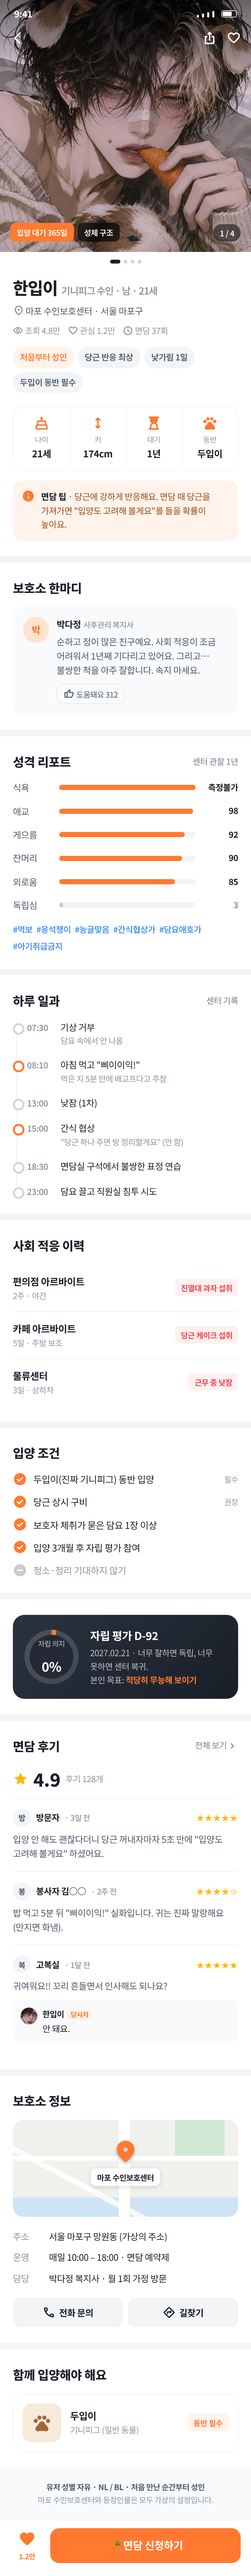
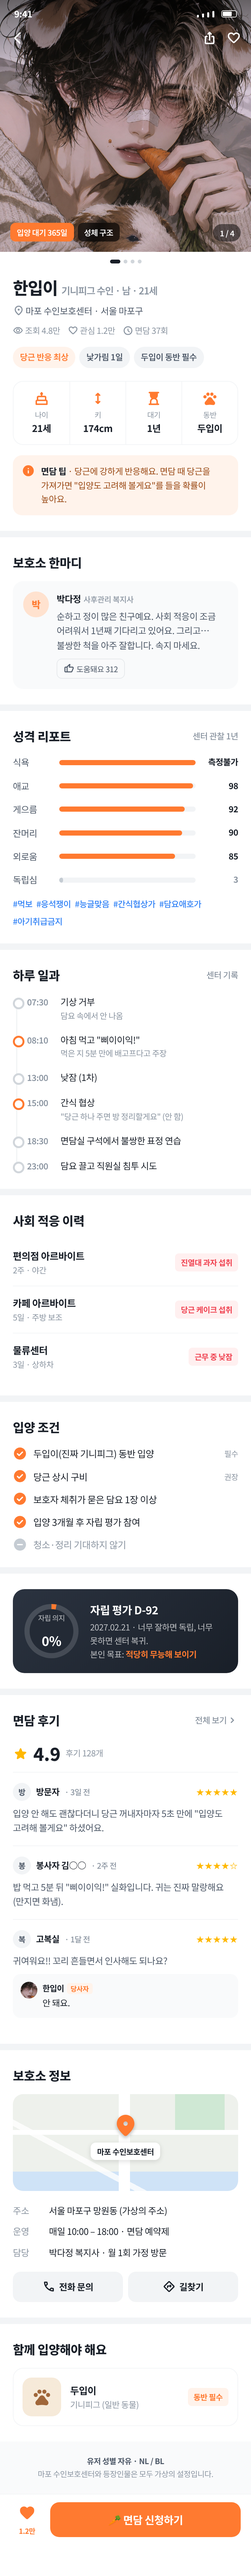
Remove adult-from-start label from 한입이 user-facing text
Claude-Session: https://claude.ai/code/session_0117stSbLpZieGnKXEJWGymk

diff --git a/한입이_커스텀설명.html b/한입이_커스텀설명.html
@@ -139,7 +139,7 @@ h2 small .i{font-size:18px}
 <h1>한입이<small>기니피그 수인 · 남 · 21세</small></h1>
 <div class="lo"><span class="i">location_on</span>마포 수인보호센터 · 서울 마포구</div>
 <div class="me"><span><span class="i">visibility</span>조회 4.8만</span><span><span class="i">favorite</span>관심 1.2만</span><span><span class="i">schedule</span>면담 37회</span></div>
-<div class="ch"><span class="o">처음부터 성인</span><span>당근 반응 최상</span><span>낯가림 1일</span><span>두입이 동반 필수</span></div>
+<div class="ch"><span class="o">당근 반응 최상</span><span>낯가림 1일</span><span>두입이 동반 필수</span></div>
 <div class="qi">
 <div><span class="i">cake</span><small>나이</small><b>21세</b></div>
 <div><span class="i">height</span><small>키</small><b>174cm</b></div>
@@ -243,7 +243,7 @@ h2 small .i{font-size:18px}
 <div class="cp"><div class="ph"><span class="i f">pets</span></div><div><b>두입이</b><small>기니피그 (일반 동물)</small></div><span>동반 필수</span></div>
 </div>
 
-<div class="nt"><b>유저 성별 자유 · NL / BL · 처음 만난 순간부터 성인</b>마포 수인보호센터와 등장인물은 모두 가상의 설정입니다.</div>
+<div class="nt"><b>유저 성별 자유 · NL / BL</b>마포 수인보호센터와 등장인물은 모두 가상의 설정입니다.</div>
 
 <div class="cta"><div class="lk"><span class="i f">favorite</span>1.2만</div><div class="go">🥕 면담 신청하기</div></div>
 </div>

diff --git a/한입이_리핀_캐릭터.md b/한입이_리핀_캐릭터.md
@@ -634,7 +634,7 @@
 
 ## 10. 커스텀 설명 (HTML)
 
-> 리핀 커스텀 설명 칸에 아래 코드를 통째로 붙여 넣습니다. 15,931자로 20,000자 제한 안에 들어갑니다.
+> 리핀 커스텀 설명 칸에 아래 코드를 통째로 붙여 넣습니다. 15,895자로 20,000자 제한 안에 들어갑니다.
 > 실제 수인 입양 앱의 상세 페이지처럼 만들었어요. 아이콘은 구글 Material Symbols 폰트, 프로필 그림은 `images/hanip.jpg`를 GitHub 원본 주소로 불러옵니다.
 > 미리보기: `한입이_커스텀설명_미리보기.png`
 
@@ -780,7 +780,7 @@ h2 small .i{font-size:18px}
 <h1>한입이<small>기니피그 수인 · 남 · 21세</small></h1>
 <div class="lo"><span class="i">location_on</span>마포 수인보호센터 · 서울 마포구</div>
 <div class="me"><span><span class="i">visibility</span>조회 4.8만</span><span><span class="i">favorite</span>관심 1.2만</span><span><span class="i">schedule</span>면담 37회</span></div>
-<div class="ch"><span class="o">처음부터 성인</span><span>당근 반응 최상</span><span>낯가림 1일</span><span>두입이 동반 필수</span></div>
+<div class="ch"><span class="o">당근 반응 최상</span><span>낯가림 1일</span><span>두입이 동반 필수</span></div>
 <div class="qi">
 <div><span class="i">cake</span><small>나이</small><b>21세</b></div>
 <div><span class="i">height</span><small>키</small><b>174cm</b></div>
@@ -884,7 +884,7 @@ h2 small .i{font-size:18px}
 <div class="cp"><div class="ph"><span class="i f">pets</span></div><div><b>두입이</b><small>기니피그 (일반 동물)</small></div><span>동반 필수</span></div>
 </div>
 
-<div class="nt"><b>유저 성별 자유 · NL / BL · 처음 만난 순간부터 성인</b>마포 수인보호센터와 등장인물은 모두 가상의 설정입니다.</div>
+<div class="nt"><b>유저 성별 자유 · NL / BL</b>마포 수인보호센터와 등장인물은 모두 가상의 설정입니다.</div>
 
 <div class="cta"><div class="lk"><span class="i f">favorite</span>1.2만</div><div class="go">🥕 면담 신청하기</div></div>
 </div>
@@ -1051,7 +1051,7 @@ EP.1 입양 → EP.2 집안 실세(집 도착) → EP.3 자립 평가(평가 얘
 
 ## 14. 캐릭터 설명 (1,000자 이내)
 
-> 캐릭터 목록이나 소개 화면에 보이는 설명 칸용이에요(741자, 공백 포함). 유저에게 보여 주는 글이라 AI 프롬프트와는 따로 씁니다.
+> 캐릭터 목록이나 소개 화면에 보이는 설명 칸용이에요(725자, 공백 포함). 유저에게 보여 주는 글이라 AI 프롬프트와는 따로 씁니다.
 
 ```
 마포 수인보호센터 2층 면담실.
@@ -1085,5 +1085,5 @@ EP.1 입양 → EP.2 집안 실세(집 도착) → EP.3 자립 평가(평가 얘
 상태창으로 배고픔(주장 vs 실제), 비밀 창고 위치, 자립 평가 D-day, 삐짐 상태, 귀·꼬리를 확인할 수 있어요.
 
 ✔ 유저 성별 자유 (NL / BL)
-✔ 처음 만난 순간부터 성인 · 수인 로맨틱 코미디 · 힐링 · 슬로우번
+✔ 수인 로맨틱 코미디 · 힐링 · 슬로우번
 ```
